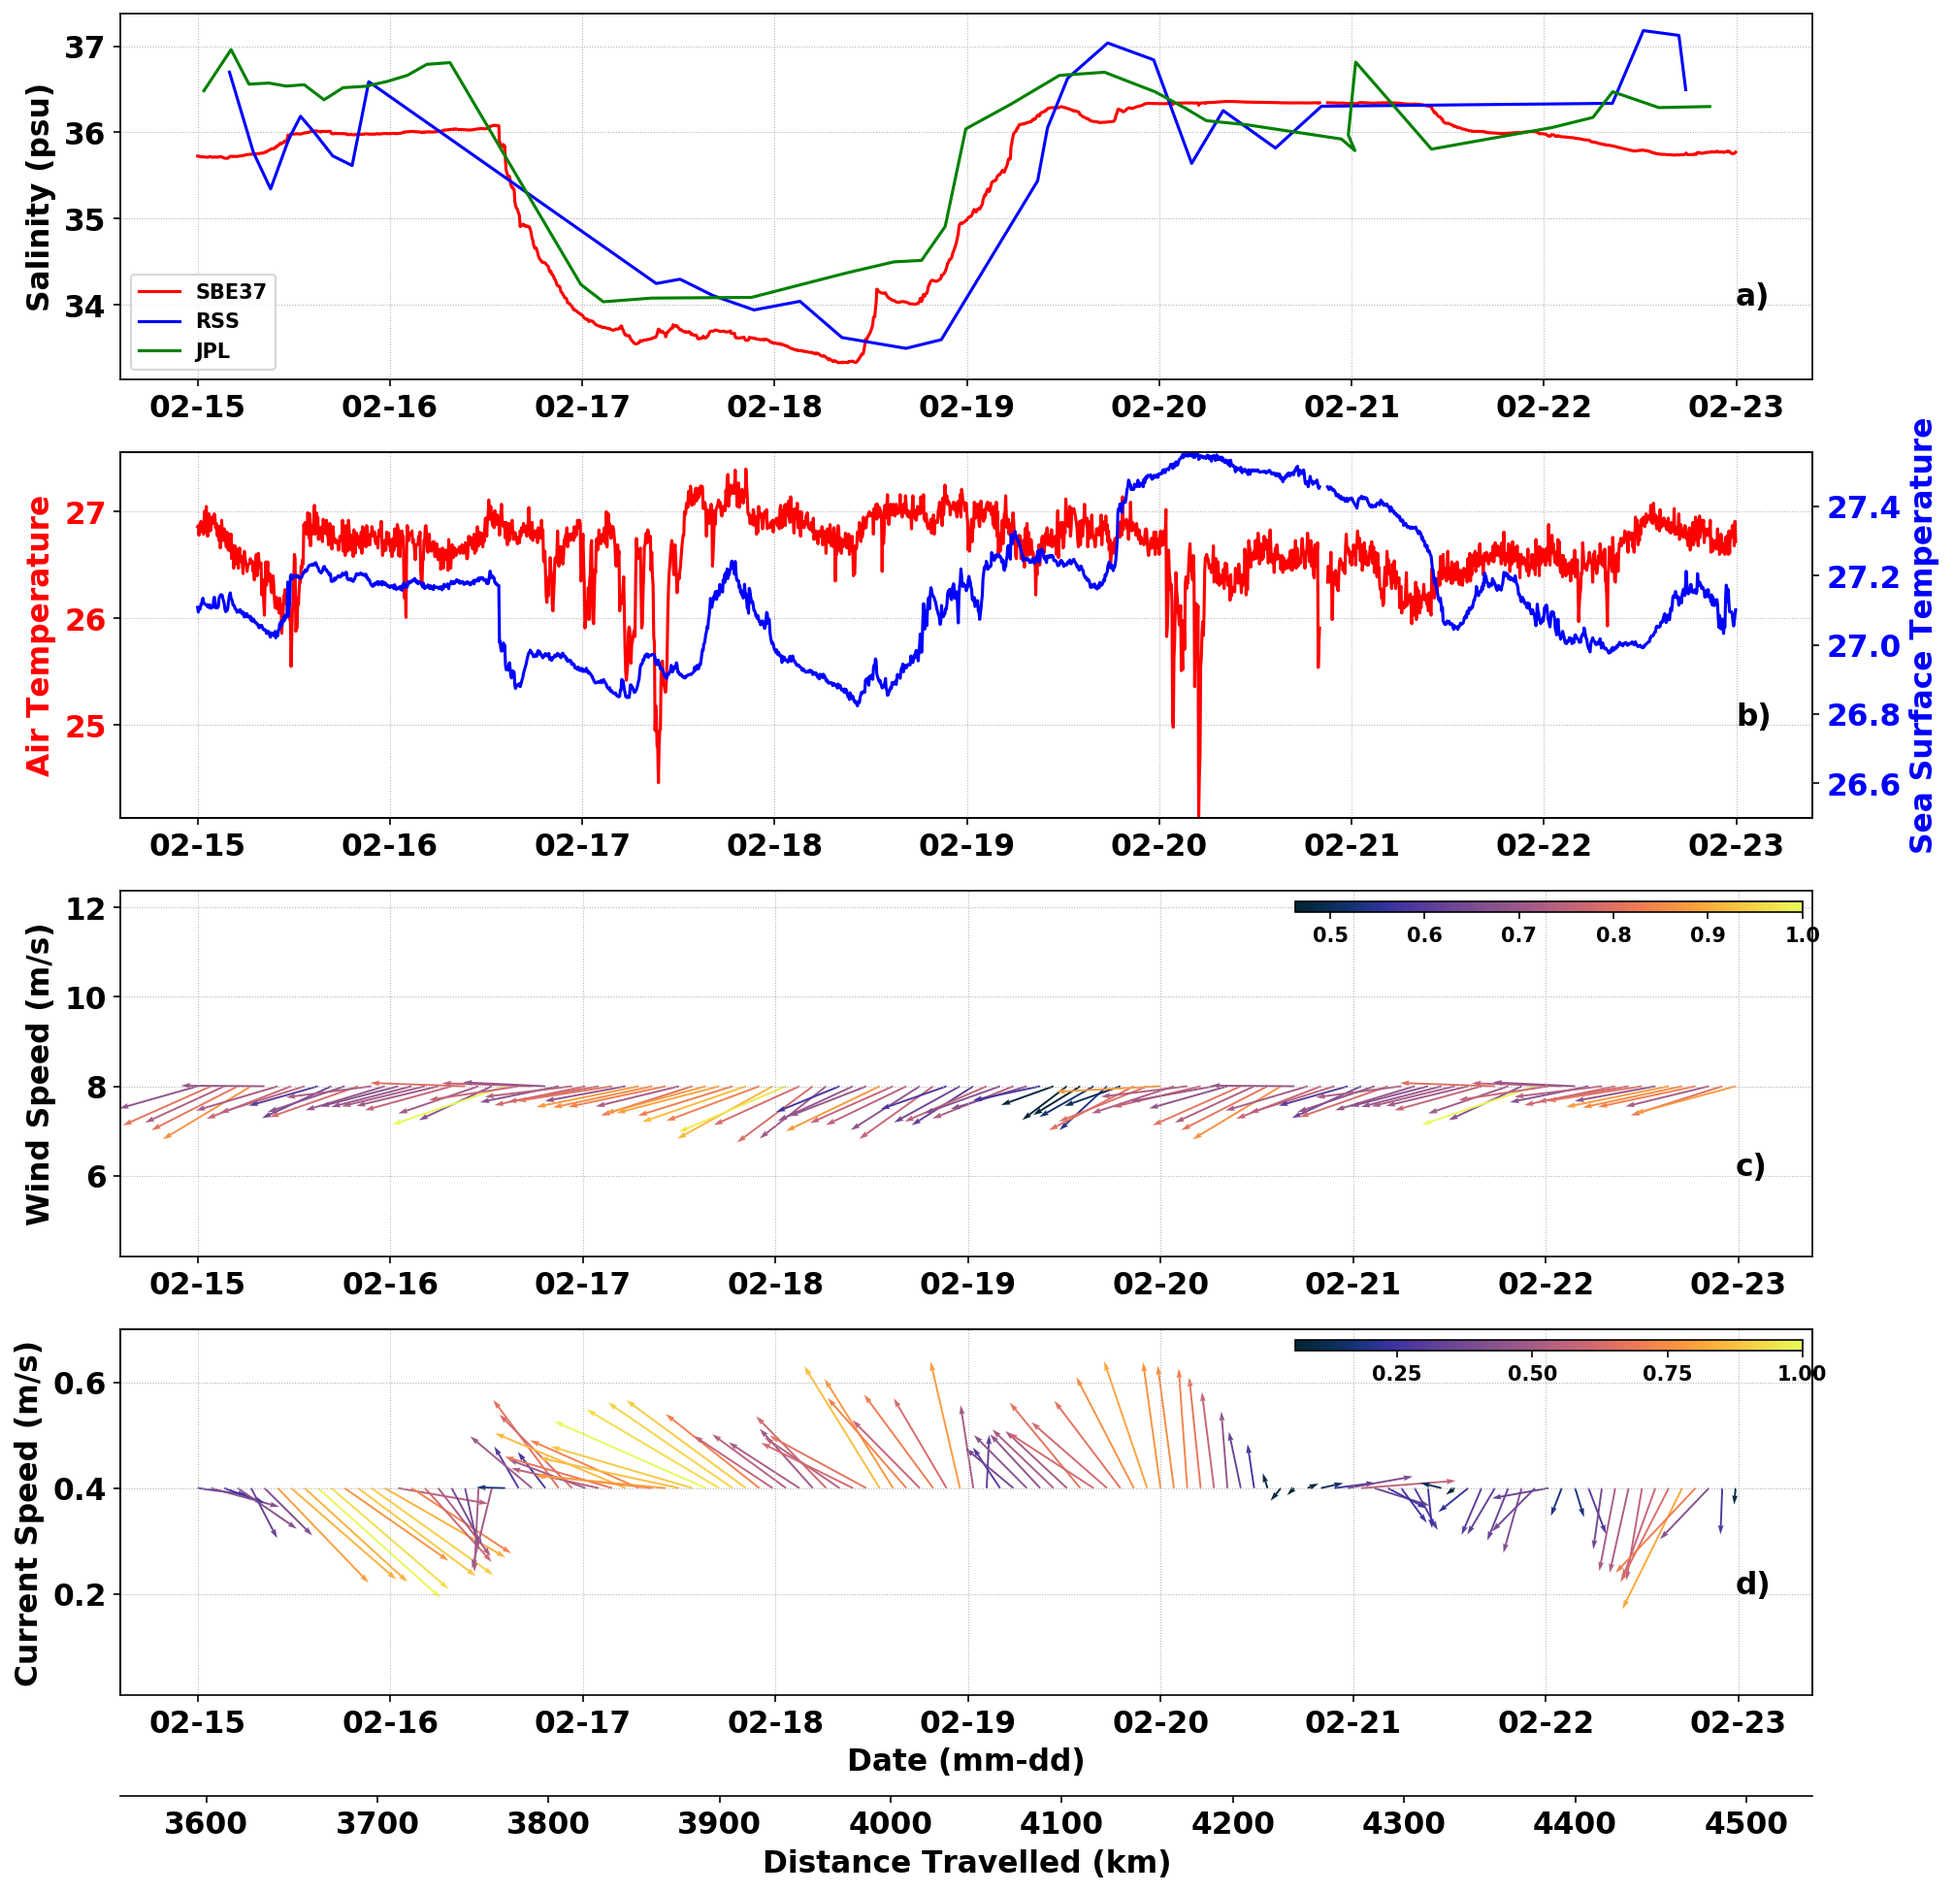
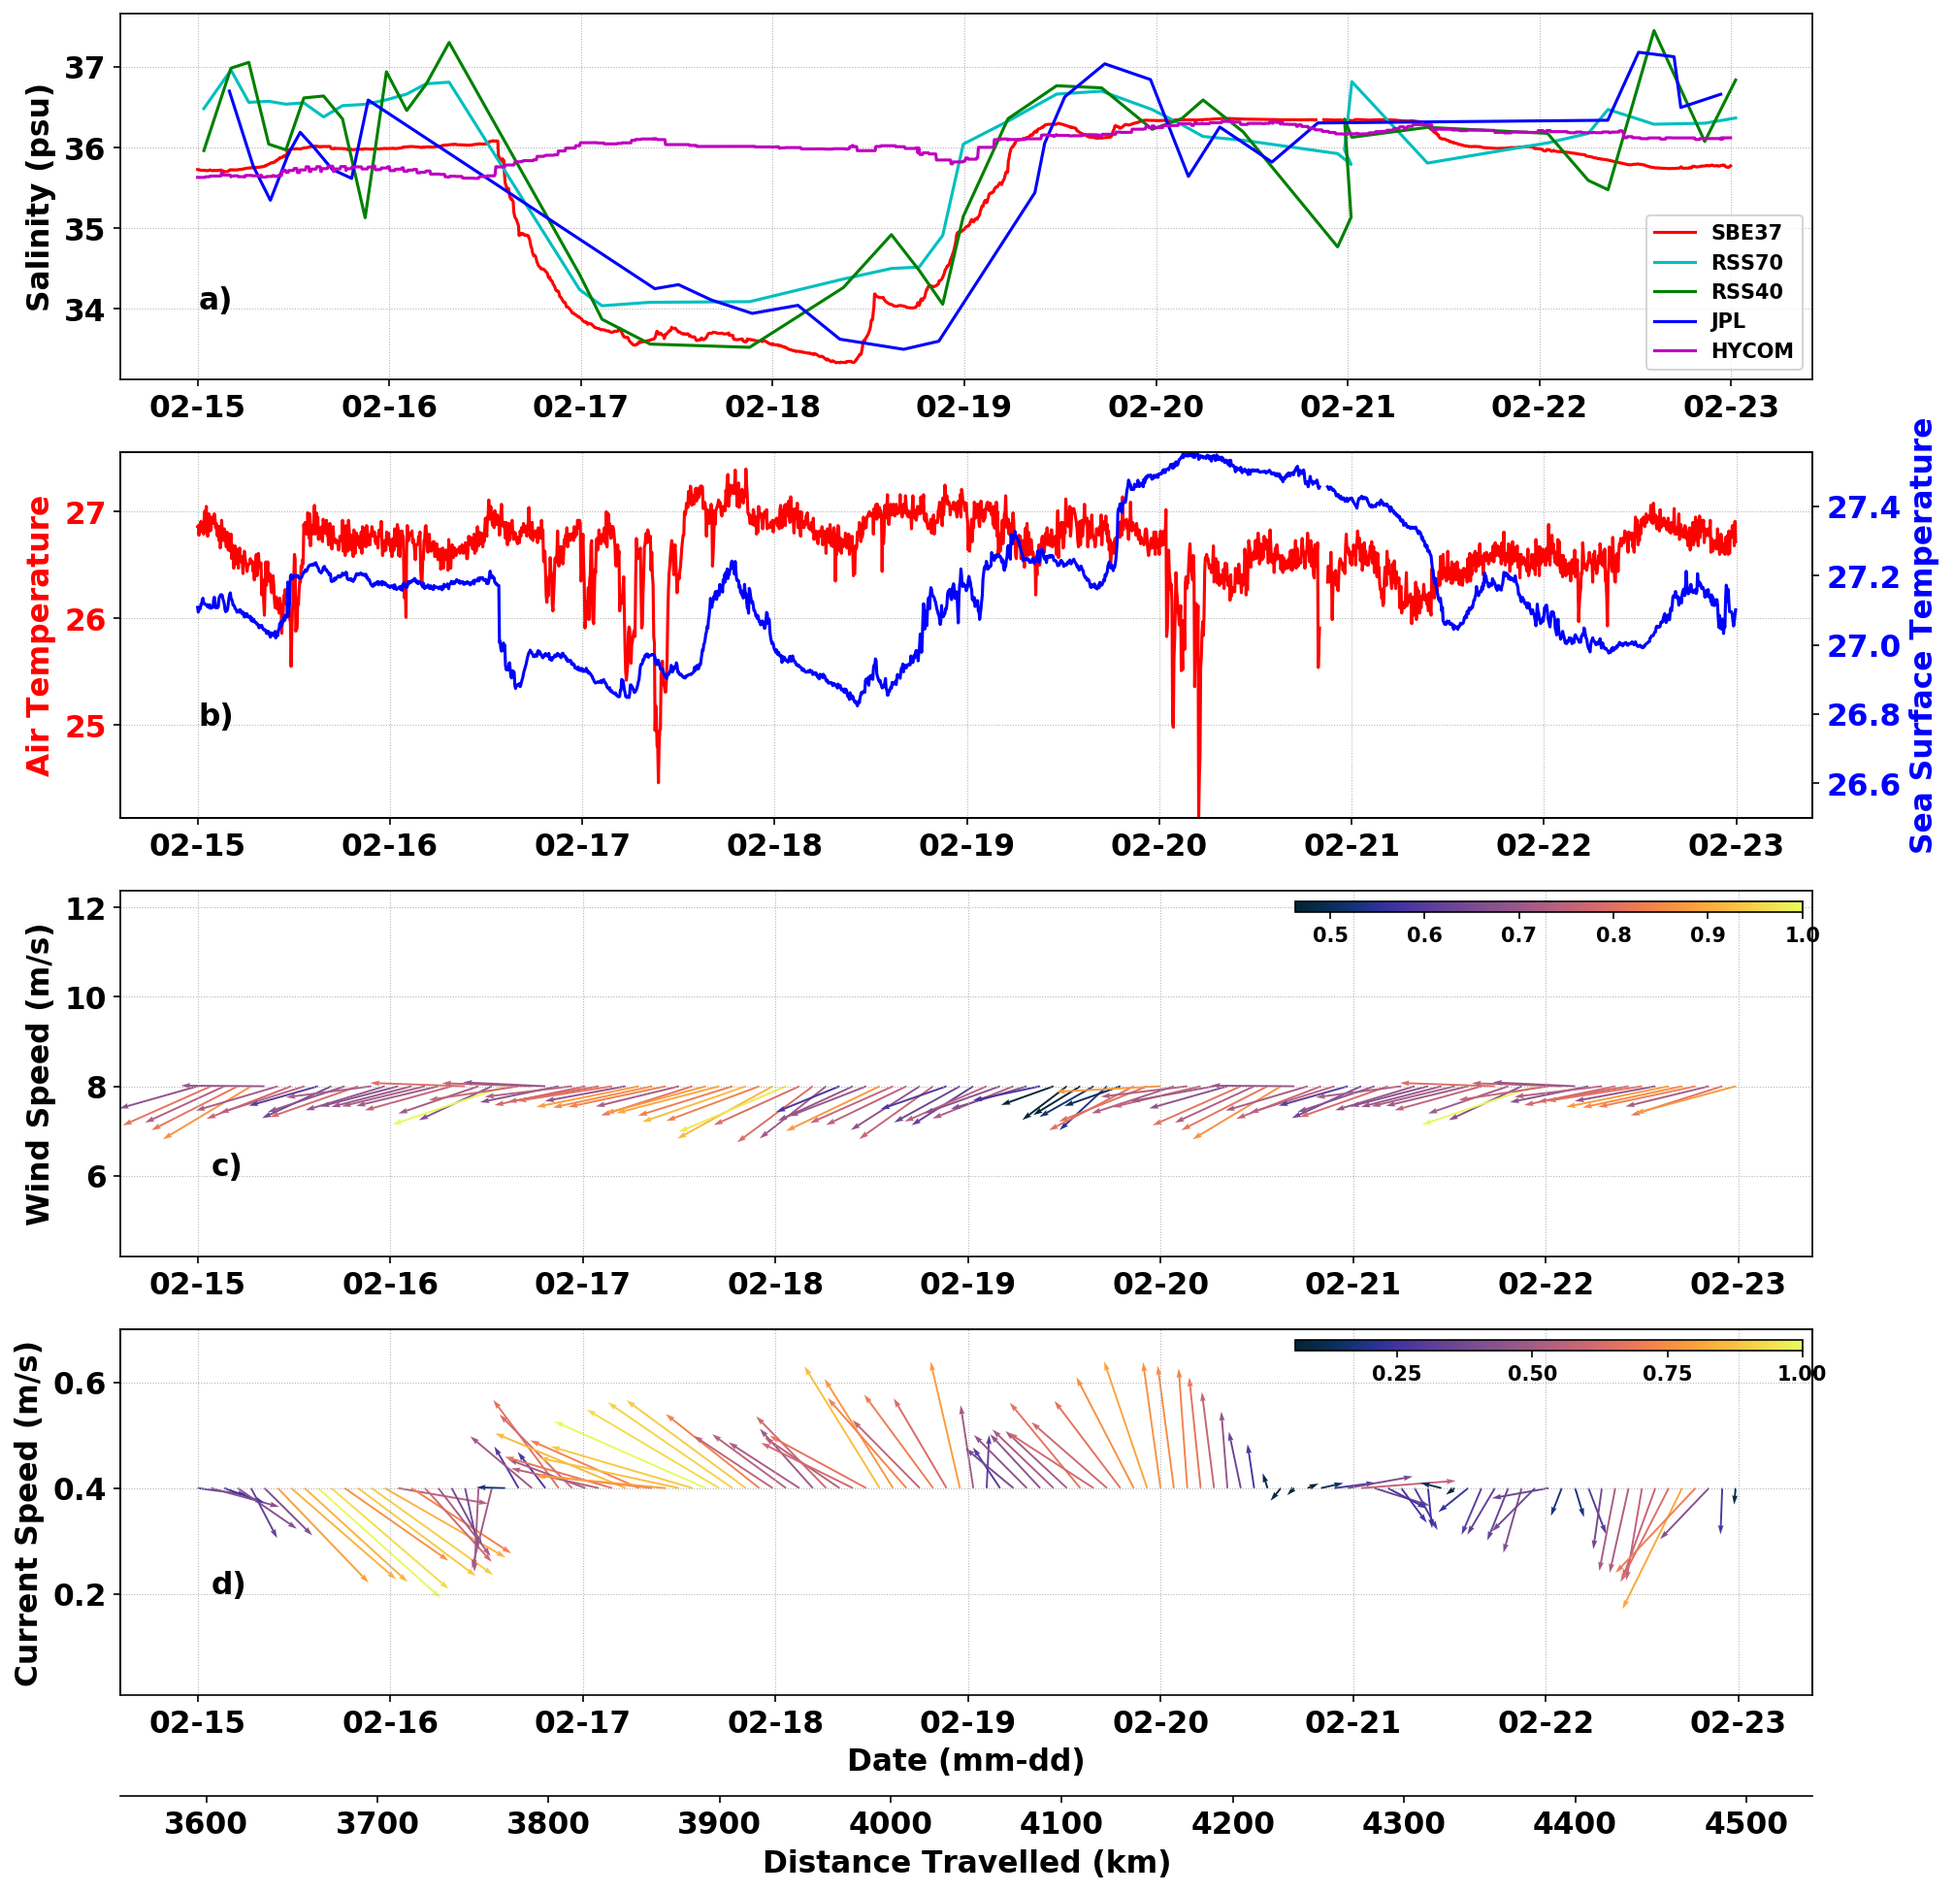
Updated Vis_all_Temp.py
Made changes to Figure 6

diff --git a/2020_ATOMIC_Salinity/Vis_all_Sal_Temp.py b/2020_ATOMIC_Salinity/Vis_all_Sal_Temp.py
@@ -55,17 +55,27 @@ sat_dir = data_dir + 'sss_collocations_orbital_norepeat/'
 adcp_dir = data_dir + 'with_adcp/'
 PNG = '/home/alton/Github/paper_software/2020_ATOMIC_Salinity/figures/'
 
+#IMPORT HYCOM DATA
+#data directory for HYCOM data
+hycom_dir1 = '/home/alton/Saildrone/cimh_saildrone/data/Sanola_Hycomm/'
+hycom=xr.open_mfdataset(hycom_dir1+'*nc4',concat_dim='time').isel(depth=0)
+
 files = glob(sat_dir+'saildrone*.nc')
 adcp_files = glob(adcp_dir+'combined*.nc')
 
+
+_, index = np.unique(hycom['time'], return_index=True)
+hycom2=hycom.isel(time=index)
+
 #Open Files
-rss = xr.open_dataset(files[4], decode_times=False)
-jpl = xr.open_dataset(files[5], decode_times=False)
+rss = xr.open_dataset(files[5], decode_times=False)
+jpl = xr.open_dataset(files[4], decode_times=False)
 sd = xr.open_dataset(adcp_files[2])
 sd['curr_spd'] = np.sqrt(sd.adcp_vel_east**2 + sd.adcp_vel_north**2)
 sd['wspd']=np.sqrt(sd.UWND_MEAN**2+sd.VWND_MEAN**2)
-
-
+# print(files[4])
+# print(files[5])
+print(rss)
 #Swap Dimensions
 rss = rss.swap_dims({'ob': 'time'})
 jpl = jpl.swap_dims({'ob': 'time'})
@@ -80,6 +90,15 @@ jpl.time.values = jpl.time.values * ns
 ss_times = [ datetime.datetime(2020, 1, 17, 0, 0) + datetime.timedelta(seconds=s) for s in rss.time.values ]
 jp_times = [ datetime.datetime(2020, 1, 17, 0, 0) + datetime.timedelta(seconds=s) for s in jpl.time.values ]
 
+#change hycom coordinates to match with saildrone(0-359:-180-179)
+hycom_lon=hycom2.assign_coords(longitude=(((hycom2.lon + 180) % 360) - 180))
+hycom2=hycom_lon.swap_dims({'lon':'longitude'})
+
+#remove nans from hycom data
+filled=hycom2.chunk({'time':-1}).interpolate_na(dim="time",method="nearest",fill_value='extrapolate')
+filled2=filled.interpolate_na(dim="lat", method="nearest",fill_value='extrapolate')
+filled3=filled2.interpolate_na(dim="lon", method="nearest",fill_value='extrapolate')
+
 val = merge(sd.latitude.values, sd.longitude.values)
 distan = np.cumsum(calculate_distance(val)) + 1574.29
 times = pd.date_range("2020-01-31 00:00:00", freq="5T", periods=9216)
@@ -90,6 +109,10 @@ sal_rbr = sd['SAL_RBR_MEAN'].sel(time=slice('2020-02-15','2020-02-22'))
 sal_sbe37 = sd['SAL_SBE37_MEAN'].sel(time=slice('2020-02-15','2020-02-22'))
 air_temp = sd['TEMP_AIR_MEAN'].sel(time=slice('2020-02-15','2020-02-22'))
 temp_sbe37 = sd['TEMP_SBE37_MEAN'].sel(time=slice('2020-02-15','2020-02-22'))
+
+# interp HYCOM data to saildrone dimensions
+hysal = filled3.interp(lat=sal_sbe37.latitude, longitude=sal_sbe37.longitude, time=sal_sbe37.time, method='nearest')
+hysal2 = hysal.salinity
 
 ws = sd['wspd'].sel(time=slice('2020-02-15','2020-02-22'))
 u_ws = sd['UWND_MEAN'].sel(time=slice('2020-02-15','2020-02-22'))
@@ -113,24 +136,26 @@ fig = plt.subplots(figsize=(15,15))
 ax = plt.subplot(4,1,1)
 # plt.plot(sal_rbr.time.values, sal_rbr.values,color='b',label='RBR')
 plt.plot(sal_sbe37.time.values, sal_sbe37.values,color='r',label='SBE37')
-plt.plot(ss_times[96:126], rss.smap_SSS.values[96:126],color='b',label='RSS')
-plt.plot(jp_times[134:173], jpl.smap_SSS.values[134:173],color='g',label='JPL')
-plt.text(sal_sbe37.time.values[-1], 34, 'a)', color='k', style='normal',fontsize='15')
+plt.plot(ss_times[134:174], rss.smap_SSS.values[134:174],color='c',label='RSS70')
+plt.plot(ss_times[134:174], rss.smap_SSS_40km.values[134:174],color='g',label='RSS40')
+plt.plot(jp_times[96:127], jpl.smap_SSS.values[96:127],color='b',label='JPL')
+plt.text(sal_sbe37.time.values[1], 34, 'a)', color='k', style='normal',fontsize='15')
+plt.plot(hysal2.time.values, hysal2.values, color='m', label='HYCOM')
 # ax.xaxis.set_major_formatter(d_fmt)
 #ax.set_xlabel("Time mm-dd (UTC)", fontsize=15, fontweight='semibold')
 ax.set_ylabel("Salinity (psu)", fontsize=15, fontweight='semibold')
 # ax.set_ylim(min(air_temp.values), max(temp_sbe37.values))
 plt.tick_params(axis='both', which='major', labelsize=15)
-plt.legend(loc='best', prop=legend_properties)
+plt.legend(loc='lower right', prop=legend_properties)
 plt.gca().xaxis.set_major_formatter(mdates.DateFormatter('%m-%d'))
 plt.grid(True, lw=0.5, ls=':')
 plt.xticks(fontweight='semibold')
 plt.yticks(fontweight='semibold')
 
-#SST and Air Temperature Plot
+# #SST and Air Temperature Plot
 ax1 = plt.subplot(4,1,2)
 plt.plot(air_temp.time.values, air_temp.values,color='r')
-plt.text(air_temp.time.values[-1], 25, 'b)', color='k', style='normal',fontsize='15')
+plt.text(air_temp.time.values[1], 25, 'b)', color='k', style='normal',fontsize='15')
 ax1.xaxis.set_major_formatter(d_fmt)
 # ax1.set_xlabel("Date (mm-dd)", fontsize=15, fontweight='semibold')
 ax1.set_ylabel("Air Temperature", color='r', fontsize=15, fontweight='semibold')
@@ -180,7 +205,7 @@ wy = np.ones(len(wx)) * 8
 dx, dy = u_ws[::30], v_ws[::30]
 m = np.sqrt(np.power(dx, 2) + np.power(dy, 2))
 q = plt.quiver(wx, wy, dx, dy, m/max(m), cmap=cmo.thermal, pivot='tail', width=0.0011)
-plt.text(wx[-1], 6, 'c)', color='k', style='normal',fontsize='15')
+plt.text(wx[1], 6, 'c)', color='k', style='normal',fontsize='15')
 ax4.set_ylim(min(ws.values), max(ws.values))
 ax4.xaxis.set_major_formatter(d_fmt)
 ax4.set_ylabel("Wind Speed (m/s)", fontsize=15, fontweight='semibold')
@@ -202,7 +227,7 @@ cy = np.ones(len(cx)) * 0.40
 dx, dy = u_cs.T[0][::20], v_cs.T[0][::20]
 m1 = np.sqrt(np.power(dx, 2) + np.power(dy, 2))
 q = plt.quiver(cx, cy, dx, dy, m1/max(m1), cmap=cmo.thermal, pivot='tail', width=0.0011)
-plt.text(cx[-1], 0.2, 'd)', color='k', style='normal',fontsize='15')
+plt.text(cx[1], 0.2, 'd)', color='k', style='normal',fontsize='15')
 ax5.set_ylim(min(cs.T[0].values), max(cs.T[0].values))
 ax5.xaxis.set_major_formatter(d_fmt)
 ax5.set_xlabel("Date (mm-dd)", fontsize=15, fontweight='semibold')
